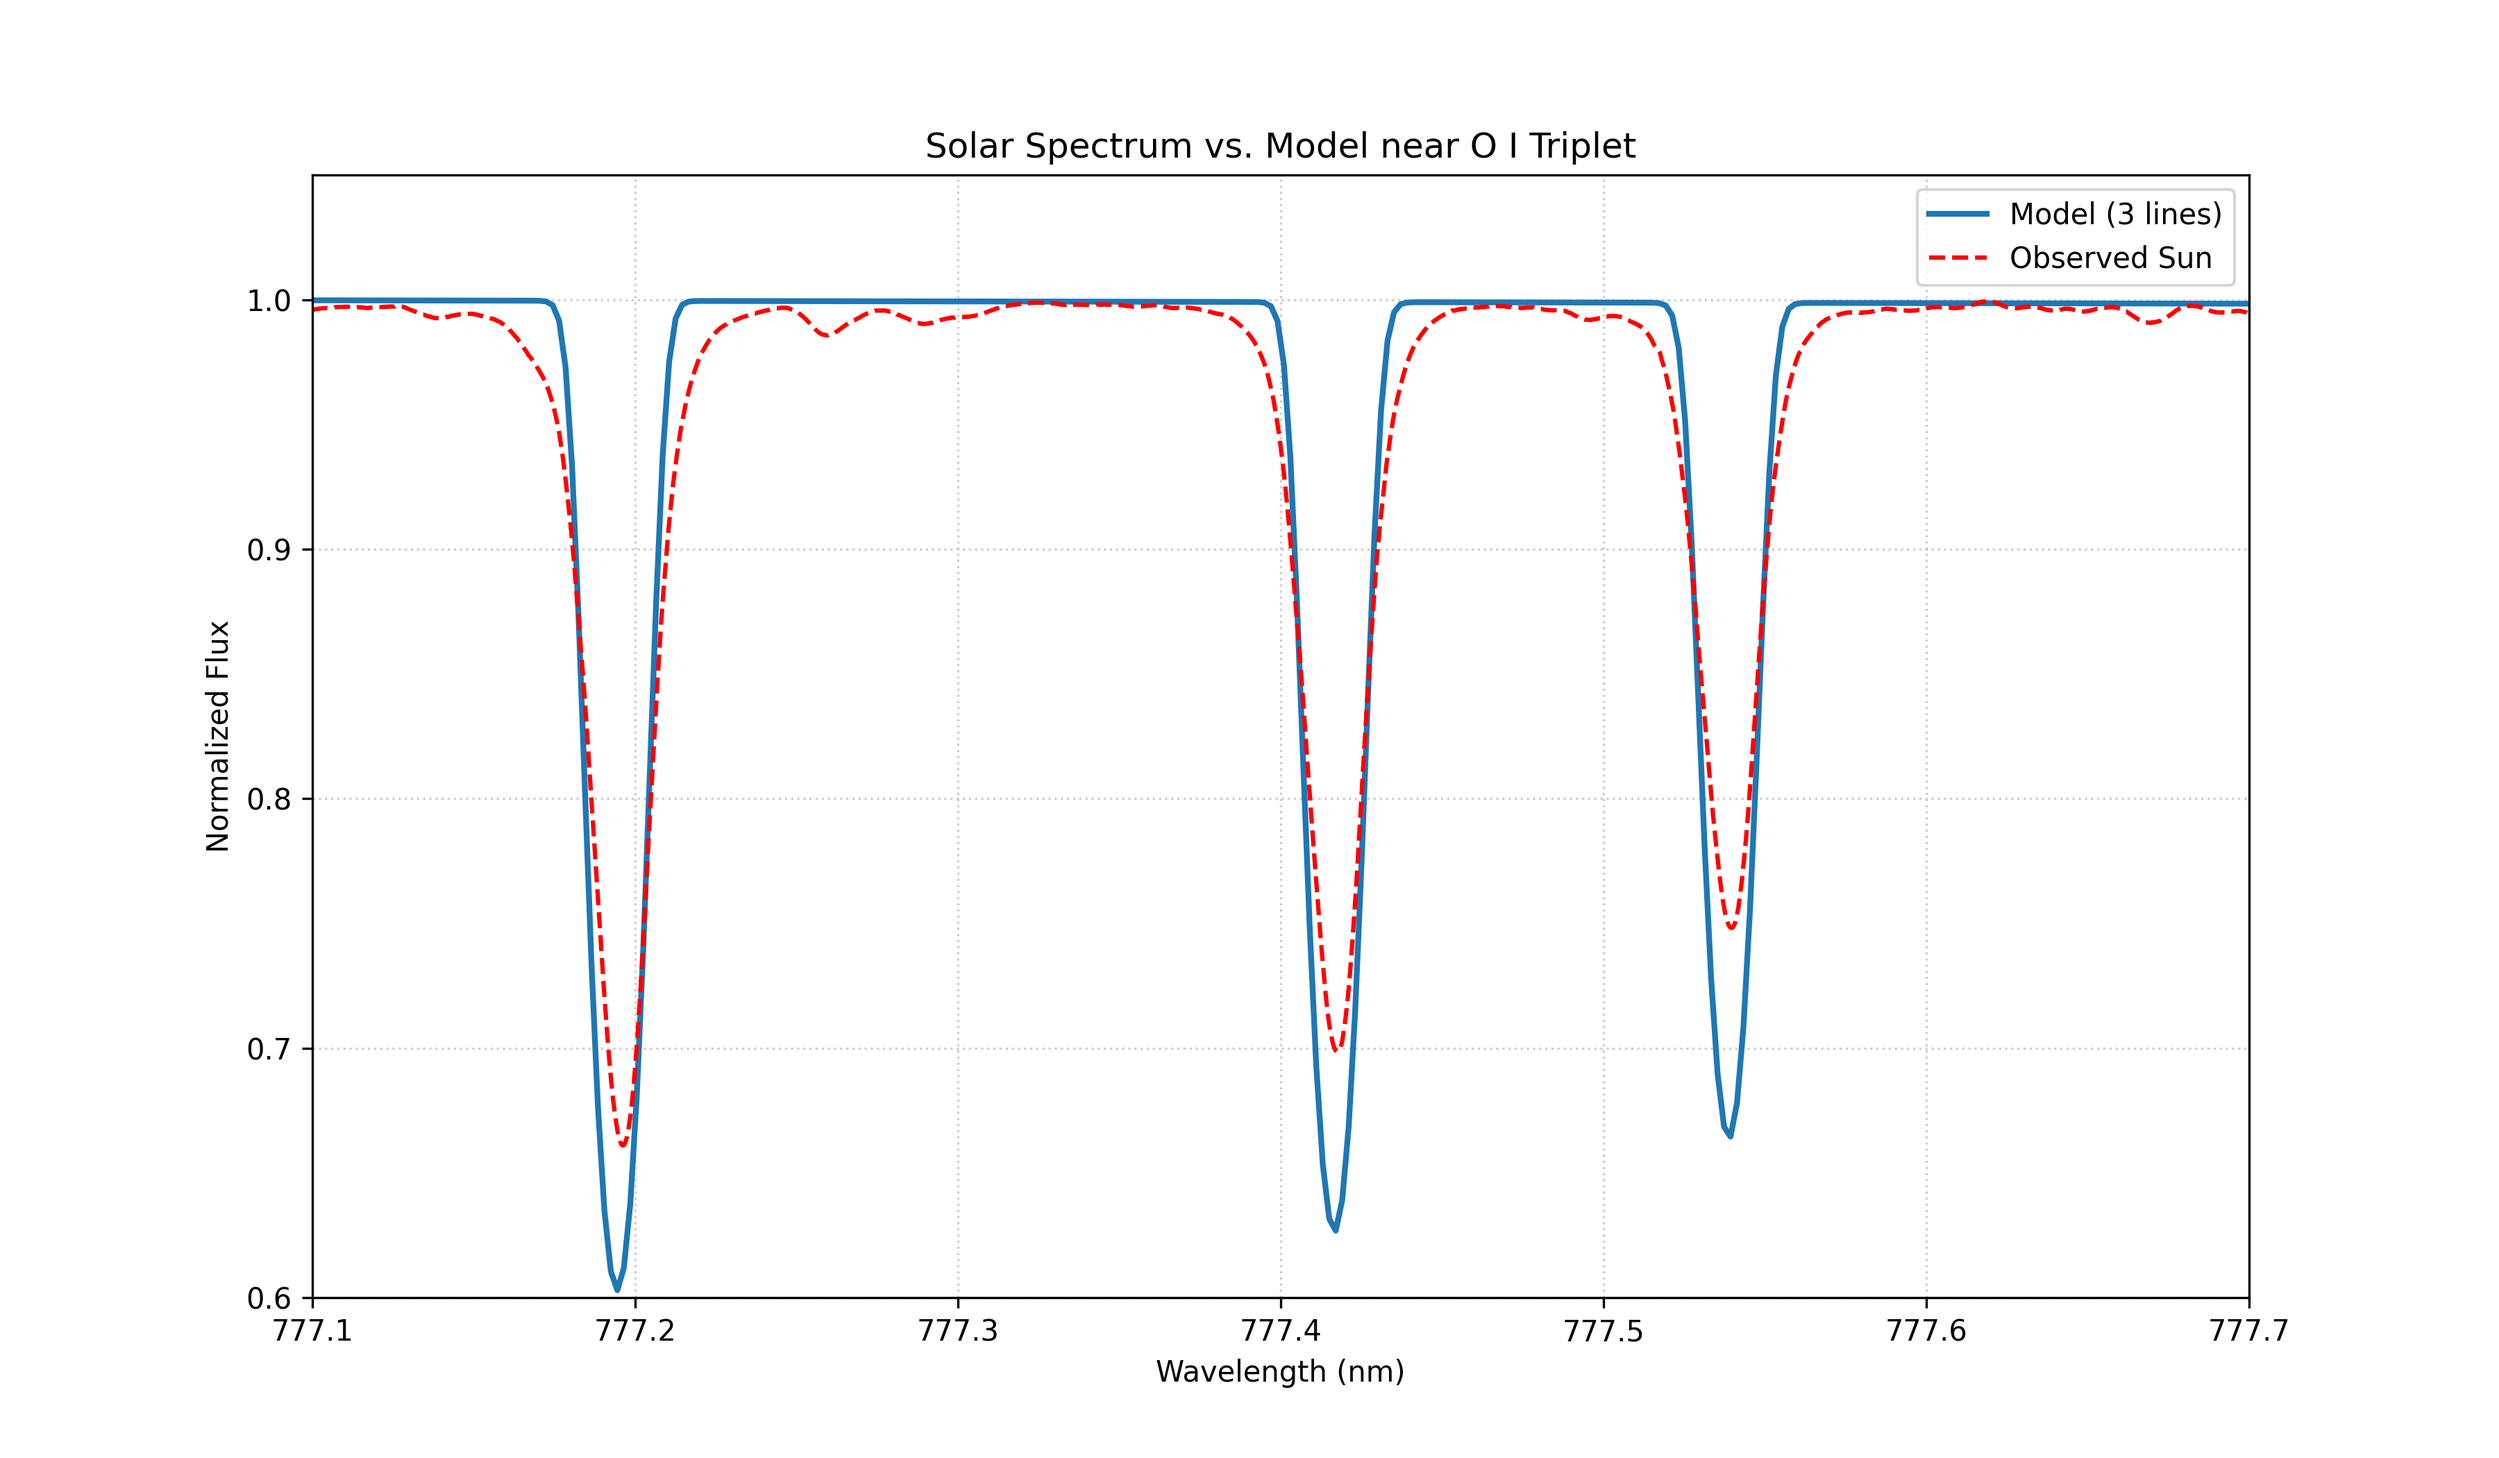
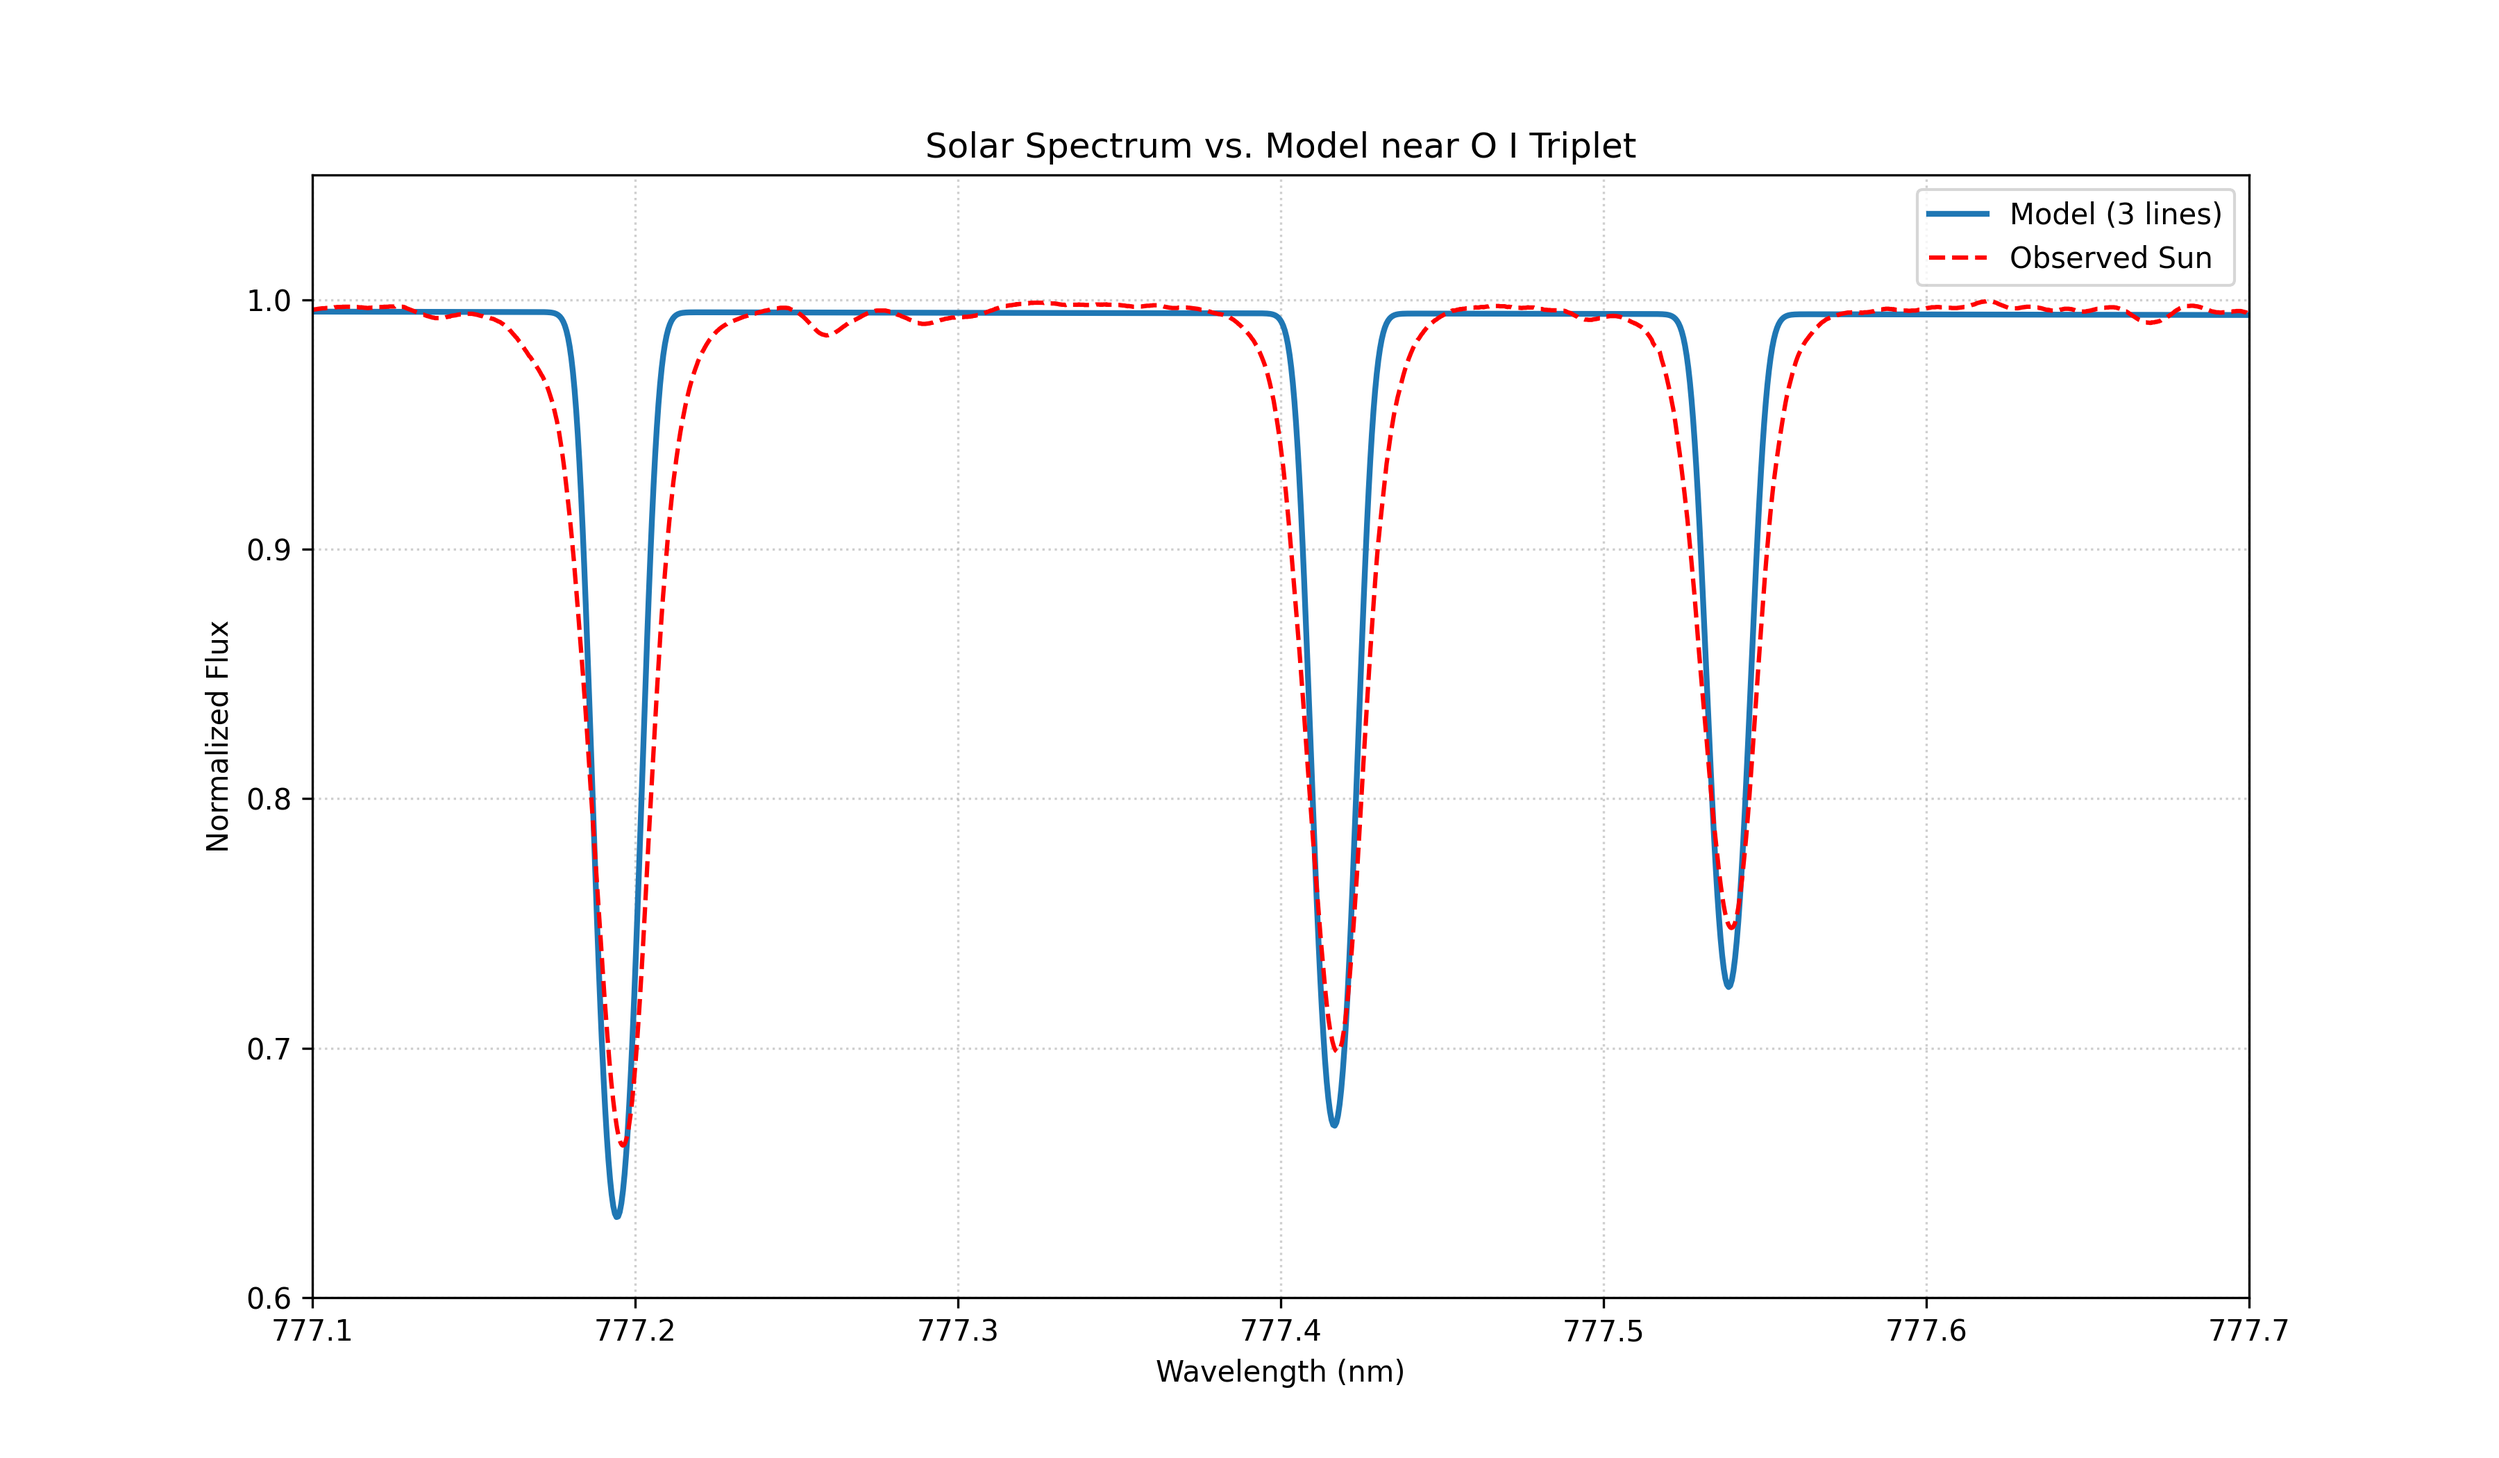
updated

diff --git a/structure.py b/structure.py
@@ -22,7 +22,7 @@ from scipy.special import expn
 import saha_eos as eos
 from strontium_barium import *
 from scipy.interpolate import interp1d
-plt.ion()
+from scipy.special import voigt_profile
 
 
 Teff = 5777 # K #4850 is the lowest. 9000 is the highest that makes sense.
@@ -100,10 +100,20 @@ pressure_pa_table = np.array([
     1.67E+04, 1.76E+04, 1.86E+04, 1.97E+04, 2.09E+04, 2.25E+04
 ])
 
+pe_pa_table = np.array([
+    2.09E-03, 2.73E-03, 3.58E-03, 4.69E-03, 6.11E-03, 7.94E-03, 1.03E-02, 1.32E-02, 1.69E-02, 2.16E-02,
+    2.74E-02, 3.48E-02, 4.41E-02, 5.59E-02, 7.12E-02, 9.12E-02, 1.17E-01, 1.53E-01, 2.00E-01, 2.67E-01,
+    3.61E-01, 5.02E-01, 7.44E-01, 1.27E+00, 2.64E+00, 6.71E+00, 1.98E+01, 5.69E+01, 1.33E+02, 2.52E+02,
+    4.08E+02, 5.90E+02, 7.82E+02, 9.84E+02, 1.21E+03, 1.46E+03
+])
+# Convert electron pressure to cgs units (dyn/cm^2)
+pe_cgs_table = pe_pa_table * 10.0
 # Pa convert to dyn/cm^2
 pressure_cgs_table = pressure_pa_table * 10.0
 
 # use above values, create interplation function
+
+f_pe_from_tau = interp1d(log_tau_table, pe_cgs_table, kind='cubic')
 f_temp_from_tau = interp1d(log_tau_table, temp_table, kind='cubic')
 f_pressure_from_tau = interp1d(log_tau_table, pressure_cgs_table, kind='cubic')
 #######################################################################################################
@@ -142,7 +152,7 @@ kappa_bars = f_kappa_bar_Ross((np.log10(Ps), Ts))
 rhos = f_rho((np.log10(Ps), Ts))    
 
 # First, lets plot a continuum spectrum
-wave = np.linspace(777.0, 777.8, 400) * u.nm  # Wavelength in nm
+wave = np.linspace(775.0, 780.0, 10000) * u.nm  # Wavelength in nm
 flux = np.zeros_like(wave)  # Initialize flux array
 
 # Just like in grey_flux.py, but in frequency 
@@ -250,6 +260,7 @@ table_W_lambda_list_pm = [7.12, 6.18, 4.88] # each coresponds to emission line i
 
 
 
+
 # --- calculate for each emission line  ---
 for line_index in range(len(oxygen_lambdas_nm)):
 
@@ -263,9 +274,22 @@ for line_index in range(len(oxygen_lambdas_nm)):
 
     # interate over each layer of atmosphere
     for i, (T, P, rho) in enumerate(zip(Ts, Ps, rhos)):
+        # Get the log_tau value for the current layer
+        current_log_tau = log_tau_grid[valid_indices][i]
+        # Use the new interpolator to get electron pressure from the table
+        Pe_cgs = f_pe_from_tau(current_log_tau) # Electron pressure in dyn/cm^2
+
+        # Convert electron pressure (Pe) to electron number density (n_e)
+        # using the ideal gas law for electrons: Pe = n_e * k_B * T
+        n_e = Pe_cgs / (c.k_B.cgs.value * T) # n_e in cm^-3
+
+        # Now that we have n_e and T, call the core saha function directly
+        # This is much faster than the solver ns_from_rho_T
+        rho_check, mu, Ui, ns = eos.saha(n_e, T)
+
         current_T = T * u.K
         current_rho = rho * u.g / u.cm**3
-        n_e, ns, mu, Ui = eos.ns_from_rho_T(current_rho, current_T)
+        # n_e, ns, mu, Ui = eos.ns_from_rho_T(current_rho, current_T)
         O_ix = np.where(eos.solarmet()[-1] == 'O')[0][0]
         n_O_I = ns[3 * O_ix]
         current_Z_T = eos.get_Z_O_I(T)
@@ -275,11 +299,29 @@ for line_index in range(len(oxygen_lambdas_nm)):
         n_absorbers = (n_O_I * frac_excited).value
 
 
-        line_nu_center = (c.c / current_line_lambda).to(u.Hz).value
-        doppler_width_nu = np.sqrt(2 * c.k_B * current_T / (16 * c.u)) / c.c * line_nu_center
-        line_profile = (1.0 / (doppler_width_nu.value * np.sqrt(np.pi))) * \
-                       np.exp(-(nu - line_nu_center)**2 / doppler_width_nu.value**2)
 
+        print(f"line_index: {line_index}: n_absorbers: {n_absorbers}")
+
+        line_nu_center = (c.c / current_line_lambda).to(u.Hz).value
+        # doppler_width_nu = np.sqrt(2 * c.k_B * current_T / (16 * c.u)) / c.c * line_nu_center
+        # line_profile = (1.0 / (doppler_width_nu.value * np.sqrt(np.pi))) * \
+        #                np.exp(-(nu - line_nu_center)**2 / doppler_width_nu.value**2)
+
+        # 1. 计算多普勒宽度 (和以前一样)
+        doppler_width_nu = np.sqrt(2 * c.k_B * current_T / (16 * c.u)) / c.c * line_nu_center
+
+        # 2. 【新增】计算 Voigt Profile 所需的两个参数
+        sigma_gauss = doppler_width_nu.value / np.sqrt(2)
+        # 为洛伦兹增宽估算一个合理的阻尼常数 gamma (单位: Hz)
+        # 这是一个近似值，但能很好地体现出碰撞增宽的效应
+        gamma_lorentz = 3e8 # 这是一个合理的数量级估算
+
+        # 3. 【修改】使用 voigt_profile 函数计算谱线轮廓
+        # 注意：voigt_profile 函数本身已经归一化，所以我们不需要再乘以归一化因子
+        # 函数的第一个参数是频率点到中心频率的距离
+        line_profile = voigt_profile(nu - line_nu_center, sigma_gauss, gamma_lorentz)
+
+        
         gf_value = 10**oxygen_log_gfs[line_index]
         kappa_line = (f_const * gf_value / rho) * n_absorbers * line_profile
 
@@ -290,9 +332,38 @@ for line_index in range(len(oxygen_lambdas_nm)):
     #  spectrum for a single line
     H_single_line = compute_H(wave, Ts, tau_grid, kappa_total_nu, kappa_bars)
 
+    plt.figure(figsize=(15, 7))
+    plt.plot(wave.to_value(u.nm), H_single_line, label='Synthetic Spectrum', lw=1)
+    plt.xlabel('Wavelength (nm)')
+    plt.ylabel('Flux')
+    plt.title('Visually Inspecting the Continuum for Normalization')
+    plt.grid(True, linestyle='--', alpha=0.6)
+    plt.legend()
+    plt.savefig(f"{line_index} get_continum_spectrum")
+    plt.show()
+
+    wave_nm = wave.to_value(u.nm)
+    indices_1 = np.where((wave_nm >= 775.0) & (wave_nm <= 776.5))
+    indices_2 = np.where((wave_nm >= 778.5) & (wave_nm <= 780.0))
+    continuum_indices = np.concatenate((indices_1[0], indices_2[0]))
+
+    # 从完整光谱中提取出这些锚点的波长和流量值
+    continuum_wavelengths = wave_nm[continuum_indices]
+    continuum_fluxes = H_single_line[continuum_indices]
+
+    # 用一次多项式（直线）来拟合这些锚点 (如果连续谱是弯的，第二个参数可以改成2)
+    p = np.polyfit(continuum_wavelengths, continuum_fluxes, 1)
+    continuum_fit_function = np.poly1d(p)
+
+    # 使用拟合函数计算出每一个波长点上的连续谱理论值
+    continuum_level_fit = continuum_fit_function(wave_nm)
+
+    # 用这个精确的连续谱来归一化整个光谱
+    model_flux_normalized_single = H_single_line / continuum_level_fit
+
     # --- equivelent width for a single line  ---
-    continuum_level_single = H_single_line[0]
-    model_flux_normalized_single = H_single_line / continuum_level_single
+    # continuum_level_single = H_single_line[0]
+    # model_flux_normalized_single = H_single_line / continuum_level_single
 
     d_wave_nm = wave[1].to_value(u.nm) - wave[0].to_value(u.nm)
     model_W_lambda_nm = np.sum(1.0 - model_flux_normalized_single) * d_wave_nm
@@ -302,18 +373,28 @@ for line_index in range(len(oxygen_lambdas_nm)):
     model_W_lambda_list_pm.append(model_W_lambda_pm)
 
 
+
+
 # --- For plotting spectrum simulation ，recalculate kappa_line_total for all three lines ---
 print("\nRecalculating combined spectrum for plotting...")
 kappa_total_nu = np.empty((len(wave), len(tau_grid)))
+
+
+n_absorbers_list = []
+
+
 for i, (T, P, rho) in enumerate(zip(Ts, Ps, rhos)):
     current_T = T * u.K
     current_rho = rho * u.g / u.cm**3
-    n_e, ns, mu, Ui = eos.ns_from_rho_T(current_rho, current_T)
+    # n_e, ns, mu, Ui = eos.ns_from_rho_T(current_rho, current_T)
     O_ix = np.where(eos.solarmet()[-1] == 'O')[0][0]
     n_O_I = ns[3 * O_ix]
     current_Z_T = eos.get_Z_O_I(T)
     frac_excited = eos.calculate_excitation_fraction(current_T, oxygen_g_i, oxygen_chi_i, current_Z_T)
     n_absorbers = (n_O_I * frac_excited).value
+
+    n_absorbers_list.append(n_absorbers)
+
     kappa_line_total = np.zeros_like(nu)
     for j in range(len(oxygen_lambdas_nm)): 
         line_lambda = oxygen_lambdas_nm[j]
@@ -345,6 +426,16 @@ for i in range(len(oxygen_lambdas_nm)):
     else:
         print("  --> Model matches observation well.")
 
+plt.figure(figsize=(8, 6))
+# 使用 semilogy 来让 Y 轴以对数形式呈现
+plt.semilogy(log_tau_grid[valid_indices], n_absorbers_list)
+plt.xlabel('log($\\tau_{500}$)')
+plt.ylabel('Number of Absorbers ($N_{abs}$ per cm$^3$)')
+plt.title('Calculated Oxygen Absorber Density vs. Depth in Sun')
+plt.grid(True)
+plt.savefig("n_absorbers_plot")
+plt.show()
+
 
 
 # ---- ADD THIS ENTIRE BLOCK BACK IN ----
@@ -354,7 +445,7 @@ kappa_total_nu = np.empty((len(wave), len(tau_grid)))
 for i, (T, P, rho) in enumerate(zip(Ts, Ps, rhos)):
     current_T = T * u.K
     current_rho = rho * u.g / u.cm**3
-    n_e, ns, mu, Ui = eos.ns_from_rho_T(current_rho, current_T)
+    # n_e, ns, mu, Ui = eos.ns_from_rho_T(current_rho, current_T)
     O_ix = np.where(eos.solarmet()[-1] == 'O')[0][0]
     n_O_I = ns[3 * O_ix]
     current_Z_T = eos.get_Z_O_I(T)

diff --git a/saha_eos.py b/saha_eos.py
@@ -28,7 +28,7 @@ def solarmet():
     elt_names = np.array(['H', 'He',   'C',   'N',   'O',   'Ne',  'Na',   'Mg',   'Al',  'Si',  'S',   'Cl', 'K',   'Ca', 'Ti', 'Cr', 'Mn', 'Fe', 'Co', 'Ni'])
     n_p =        np.array([1,   2,      6,     7,     8,     10,    11,     12,      13,    14,   16,     17,  19,     20,   22,   24,   24,   26,   27,  28 ])
     masses=      np.array([1.0, 4.0,    12.01, 14.01, 16.00, 18.0,  22.99, 24.31, 26.98, 28.09, 32.06, 35.45, 39.10,40.08, 47.87, 52.0, 54.94, 55.85, 58.93,63.55])
-    abund = 10**(np.array([12, 10.93,   8.43,  7.83,  8.66,  7.93,  6.24,  7.60,   6.43,  7.51,  7.12,  5.31,  5.03, 6.30,  4.97, 5.62, 5.42, 7.46, 4.94, 6.20])-12)
+    abund = 10**(np.array([12, 10.93,   8.43,  7.83,  7.9,  7.93,  6.24,  7.60,   6.43,  7.51,  7.12,  5.31,  5.03, 6.30,  4.97, 5.62, 5.42, 7.46, 4.94, 6.20])-12)
     ionI  =      np.array([13.595,24.58,11.26, 14.53, 13.61, 21.56, 5.14,  7.644,  5.98,  8.149,10.36, 13.01, 4.339,6.111, 6.80, 6.74, 6.76, 7.87, 7.88 ,7.63])
     ionII  =     np.array([-0.754,  54.403,  24.376,29.593,35.108,40.96, 47.29, 15.03, 18.82,  16.34, 23.40,23.80, 31.81,11.87, 13.57, 16.49, 15.64,16.18, 17.08, 18.15])
 
